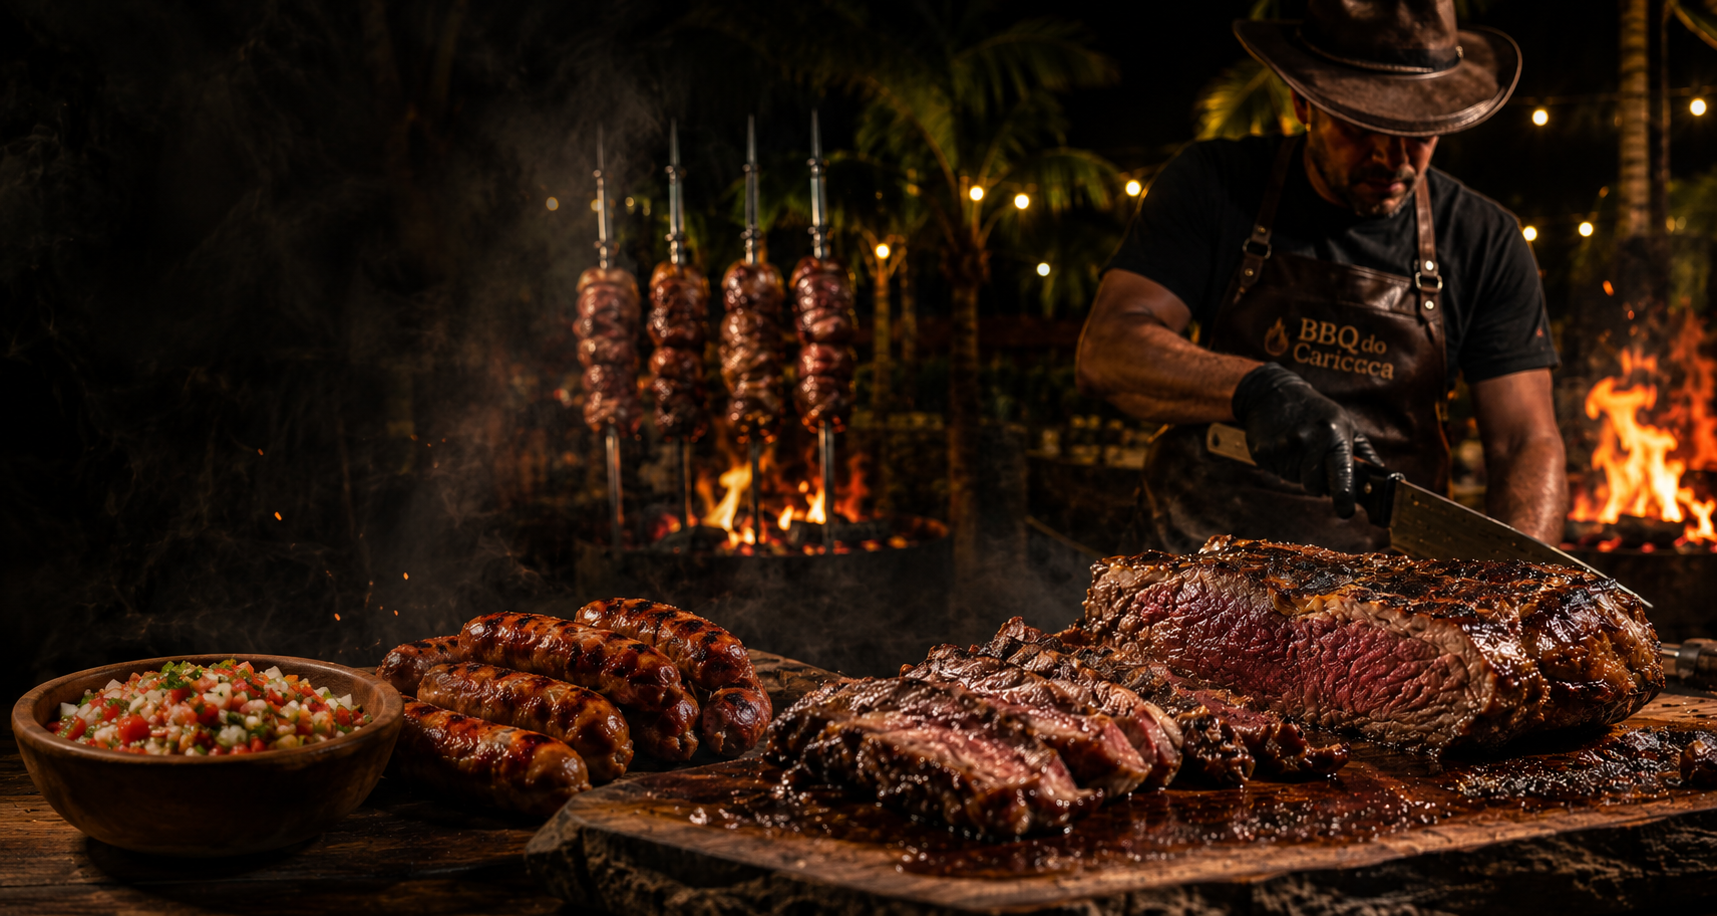
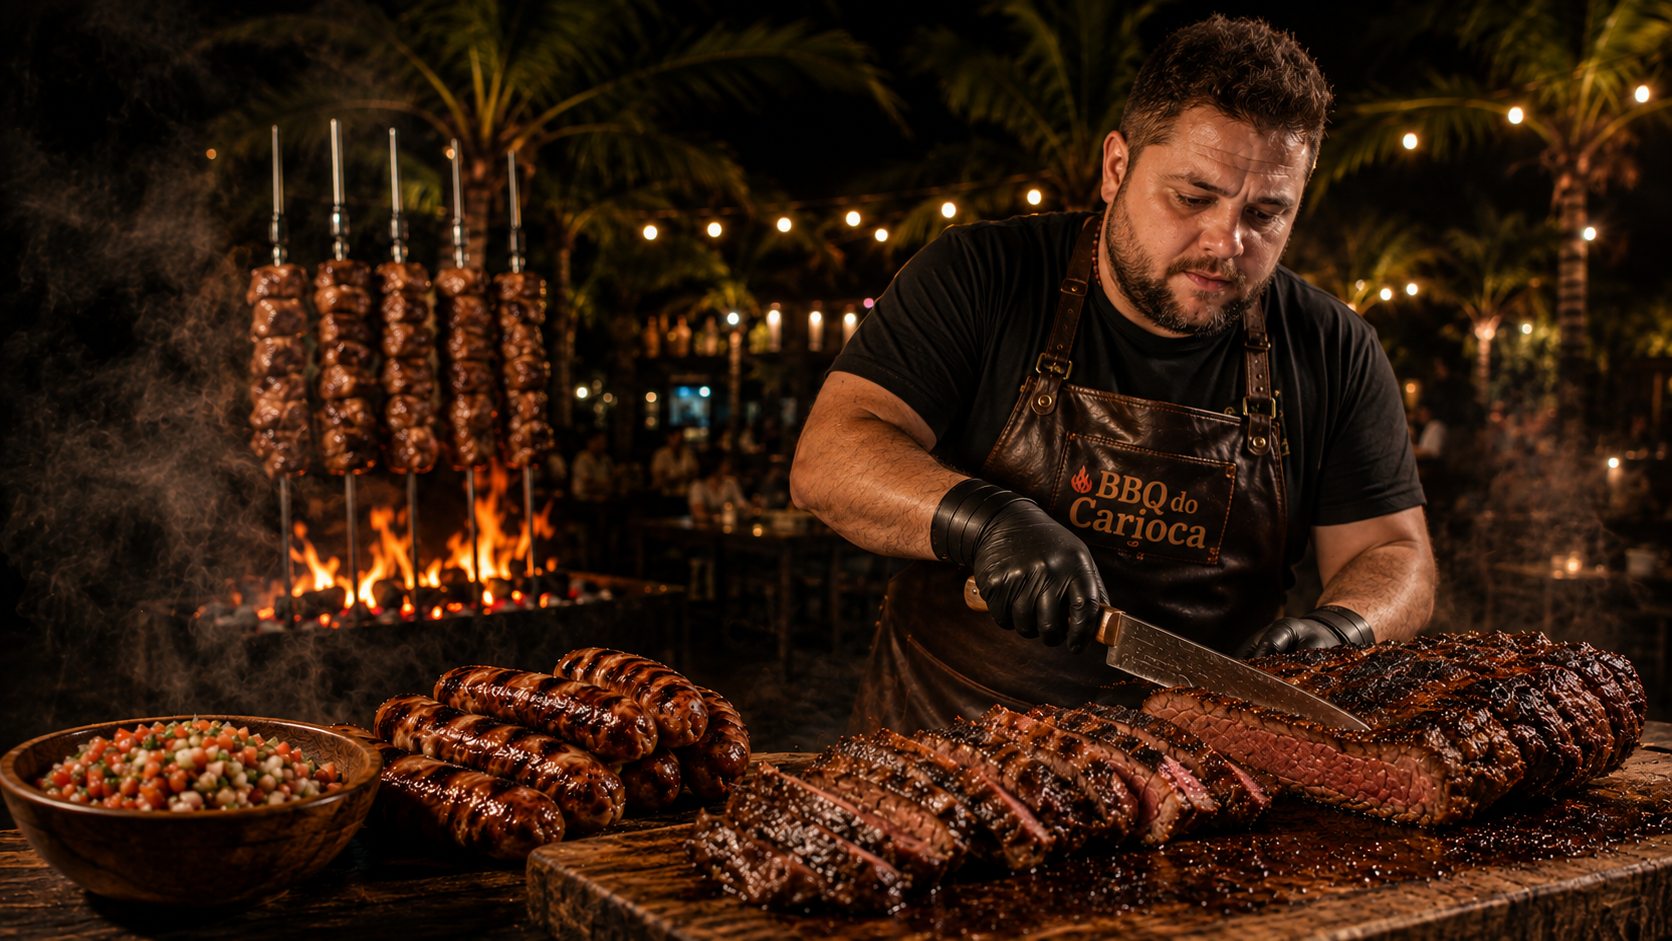
feat(lp): update founder image to img/Bruno-Carioca.png

diff --git a/lp/lp-bbq-carioca-v2_0.html b/lp/lp-bbq-carioca-v2_0.html
@@ -314,8 +314,8 @@
       border: 1px solid var(--line);
     }
     .meet-img {
-      width: 100%; height: 100%; object-fit: cover;
-      filter: brightness(.8) saturate(.9);
+      width: 100%; height: 100%; object-fit: cover; object-position: top;
+      filter: brightness(.95) saturate(1.05);
     }
     .meet-img-overlay {
       position: absolute; inset: 0;
@@ -878,7 +878,7 @@
       <div class="reveal">
         <div class="meet-img-wrap">
           <img
-            src="https://images.unsplash.com/photo-1607631568010-a87245c0daf8?w=800&q=80&auto=format&fit=crop"
+            src="img/Bruno-Carioca.png"
             alt="Bruno Carioca — professional churrasqueiro founder of BBQ do Carioca"
             class="meet-img"
             loading="lazy"
